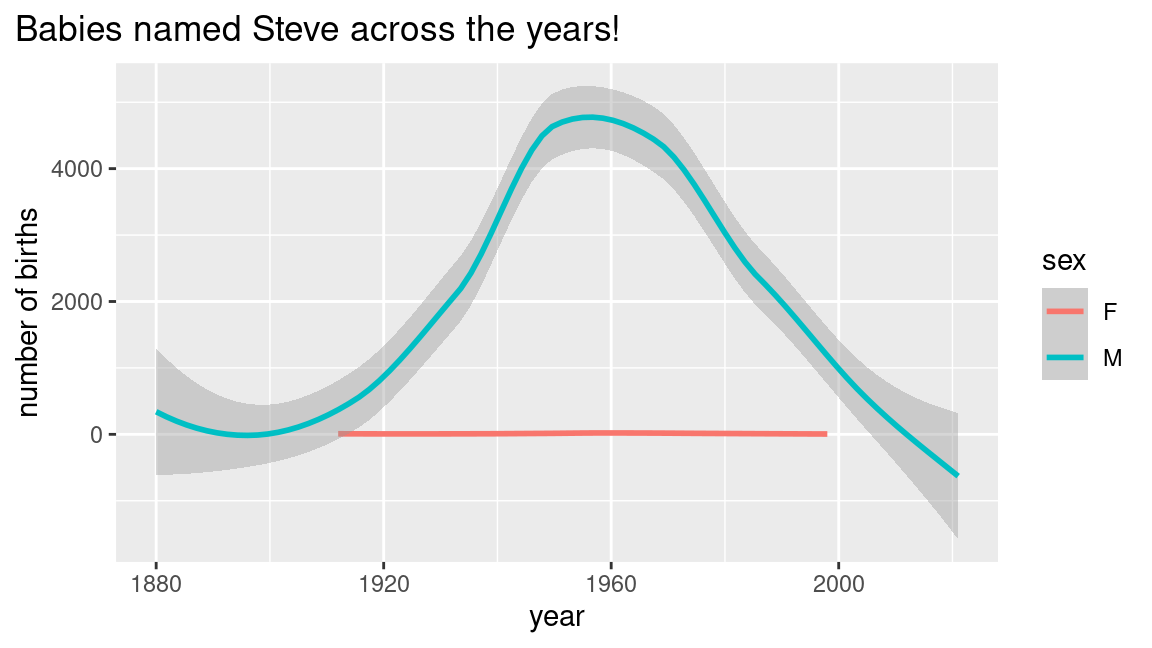
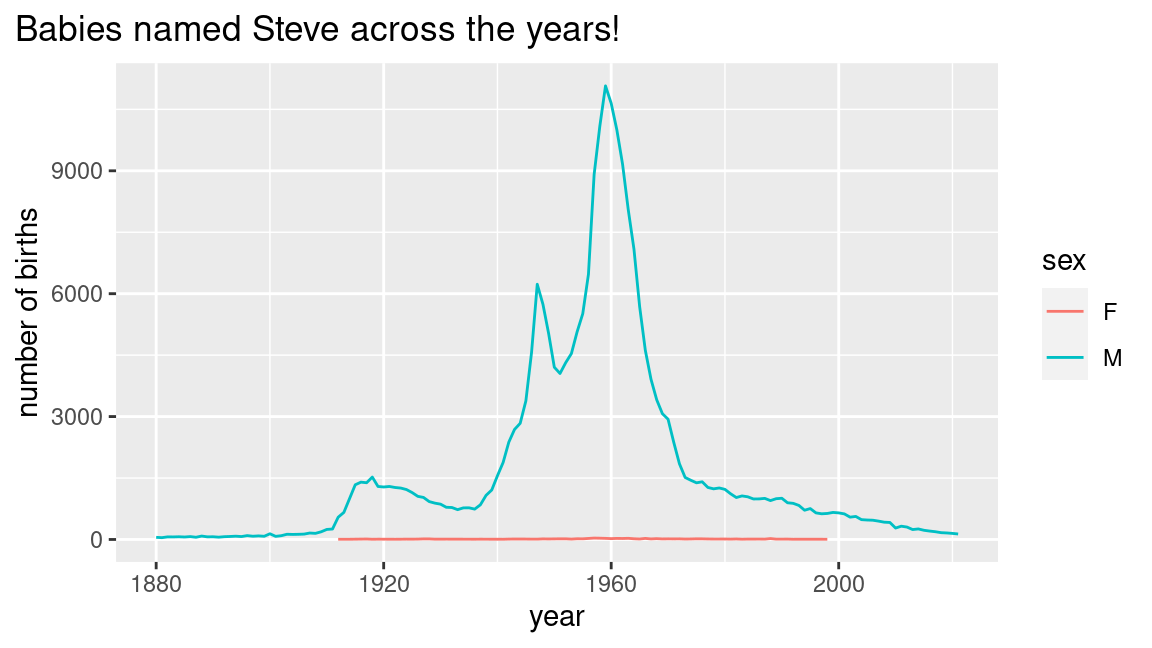
Geom_smooth error fix

diff --git a/projects/project-01/project-01-explore-babynames.md b/projects/project-01/project-01-explore-babynames.md
@@ -232,7 +232,7 @@ plot_trends_in_name <- function(my_name) {
     # Initialize a ggplot of `nb_births` vs. `year` colored by `sex`
     ggplot(aes(x = year, y = nb_births, color = sex)) +
     # Add a line layer
-    geom_smooth() +
+    geom_line() +
     # Add labels (title, x, y)
     labs(
       title = glue::glue("Babies named {my_name} across the years!"),
@@ -245,15 +245,11 @@ plot_trends_in_name <- function(my_name) {
 plot_trends_in_name("Steve")
 ```
 
-    #> `geom_smooth()` using method = 'loess' and formula = 'y ~ x'
-
 <img src="img/question-2-visualize-1.png" width="100%" style="display: block; margin: auto;" />
 
 ``` r
 plot_trends_in_name("Barbara")
 ```
-
-    #> `geom_smooth()` using method = 'loess' and formula = 'y ~ x'
 
 <img src="img/question-2-visualize-2.png" width="100%" style="display: block; margin: auto;" />
 
